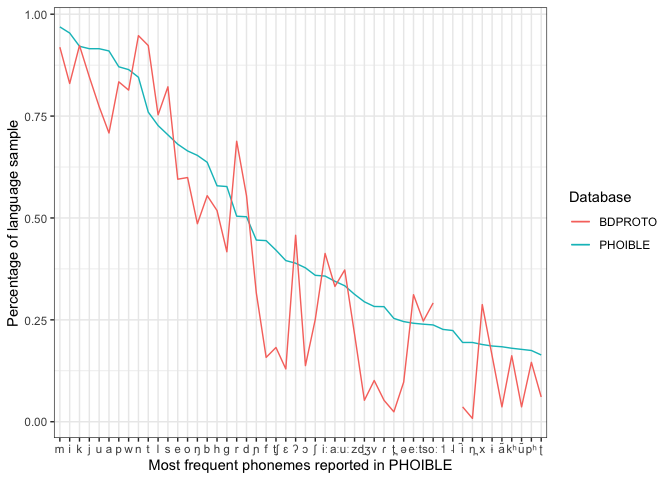
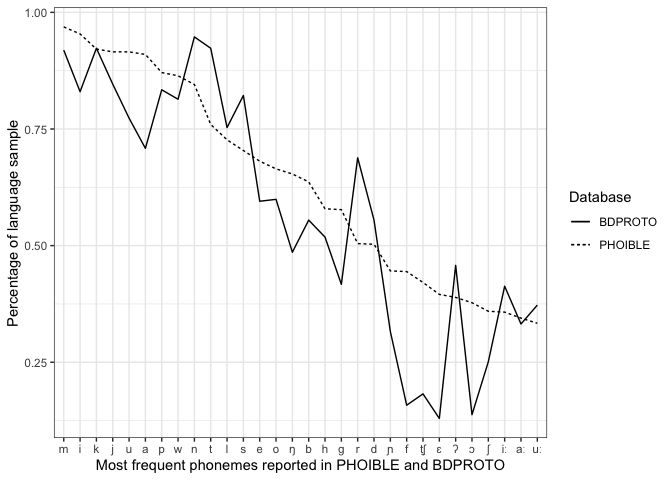
add bw figure

diff --git a/src/descriptive_stats.md b/src/descriptive_stats.md
@@ -1,6 +1,7 @@
 BDPROTO descriptive stats
 ================
 Steven Moran
+08 December, 2019
 
 ``` r
 library(dplyr)
@@ -426,6 +427,21 @@ ggplot(data = top.z, aes(x = Phoneme, group=1)) +
 ![](descriptive_stats_files/figure-markdown_github/unnamed-chunk-29-1.png)
 
 ``` r
+# Try top 30 phonemes without color
+top.z <- head(z, n=30)
+
+ggplot(data = top.z, aes(x = Phoneme, group=1)) +
+  geom_line(aes(y = Bdproto.percentage, linetype = "BDPROTO")) +
+  geom_line(aes(y = Phoible.percentage, linetype = "PHOIBLE")) + 
+  ylab("Percentage of language sample") +
+  xlab("Most frequent phonemes reported in PHOIBLE and BDPROTO") +
+  labs(linetype="Database") +
+  theme_bw()
+```
+
+![](descriptive_stats_files/figure-markdown_github/unnamed-chunk-30-1.png)
+
+``` r
 # Try top 50 phonemes
 top.z <- head(z, n=50)
 
@@ -457,7 +473,7 @@ ggplot(data = top.z, aes(x = Phoneme, group=1)) +
   theme_bw()
 ```
 
-![](descriptive_stats_files/figure-markdown_github/unnamed-chunk-30-1.png)
+![](descriptive_stats_files/figure-markdown_github/unnamed-chunk-31-1.png)
 
 ``` r
 # Get dates
